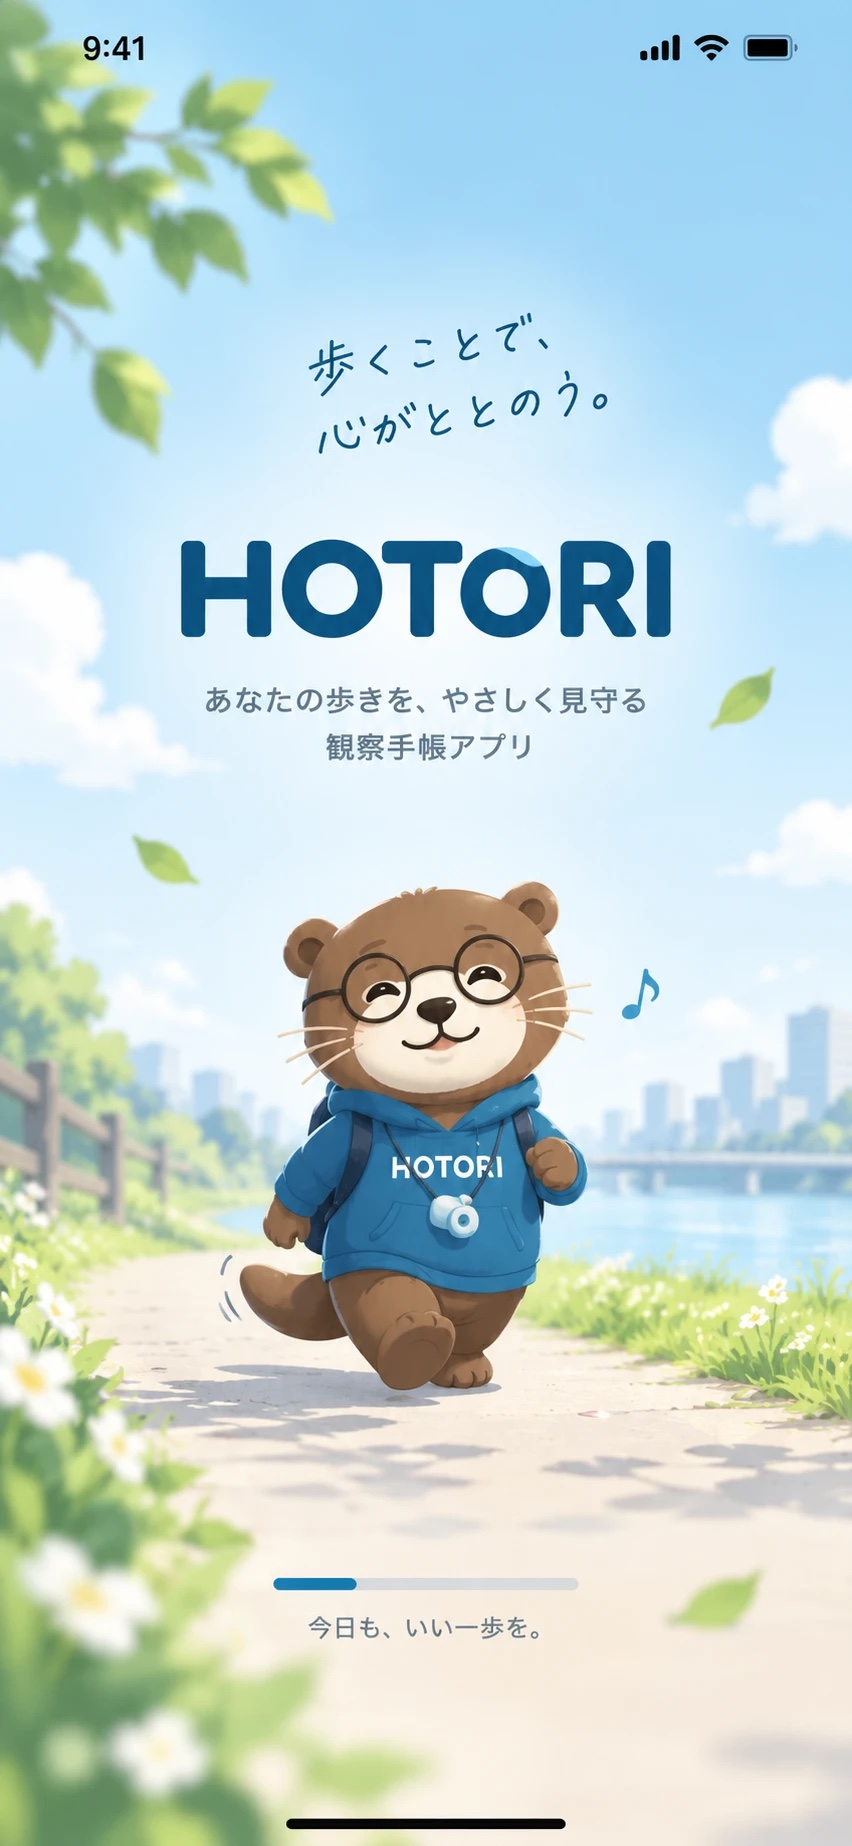
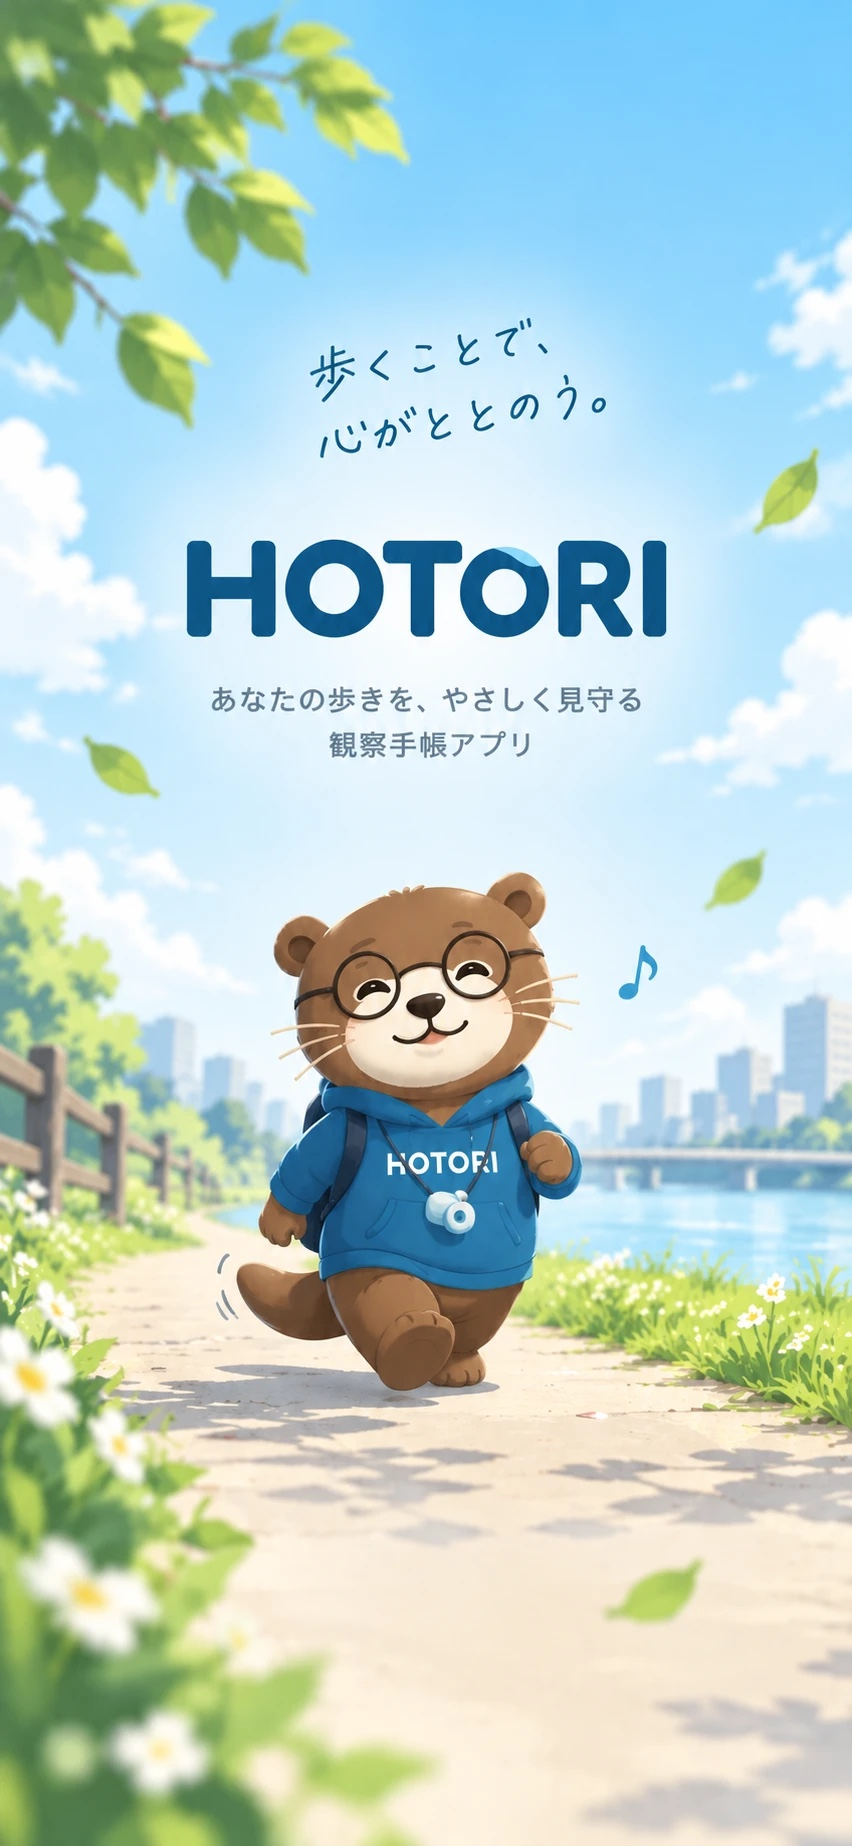
キービジュアルを進捗バーなし版に差し替え、バーとキャプションをネイティブ描画に変更
画像に描き込みだった進捗バーは静止して見える問題があったため、
バー・キャプションを除いた版のイラスト(ユーザー提供)に差し替え、
「今日も、いい一歩を。」と進捗バーをネイティブUIで重ねて実際に動かす。

- 進捗バーは表示中に9割までゆっくり満ち、準備完了(フェード開始)で満タンになる演出。
  実際の読み込み進捗は計測できないため体感に合わせた演出とし、
  reduce motion 設定時はアニメーションせず満タンの静止表示
- 幅アニメーションのためJSドライバを使用(小さなバー1本で負荷は無視できる)
- タイトルロゴ・キャッチコピーは引き続き画像に描き込み(ネイティブで重ねない)

検証: typecheck / lint / test(17スイート・247件)通過。
シミュレータのExpo Goでコールドスタートし、イラスト表示→バー動作→
キャプション表示→ホームへのフェードを連写キャプチャで確認済み。

diff --git a/src/components/launch-overlay.tsx b/src/components/launch-overlay.tsx
@@ -1,6 +1,6 @@
 import { Image } from 'expo-image';
 import { useEffect, useRef, useState } from 'react';
-import { Animated, Easing, StyleSheet, useAnimatedValue } from 'react-native';
+import { Animated, Easing, StyleSheet, Text, View, useAnimatedValue } from 'react-native';
 
 import { useReduceMotion } from '@/hooks/use-reduce-motion';
 import {
@@ -11,10 +11,12 @@ import {
 
 /** フェードアウトの長さ(ms) */
 const FADE_OUT_MS = 300;
+/** 進捗バーが9割まで満ちるのにかける時間(ms)。残り1割は準備完了の合図で満たす */
+const PROGRESS_CRUISE_MS = 2500;
 
-// キービジュアル(852×1846)。タイトルロゴ・キャッチコピー・進捗バー・
-// 「今日も、いい一歩を。」まですべて描き込み済みの1枚絵なので、
-// ネイティブUIのテキストや進捗バーをこの上に重ねない(二重表示になるため)
+// キービジュアル(852×1846)。タイトルロゴとキャッチコピーは描き込み済みなので
+// ネイティブUIで重ねない。進捗バーとキャプションだけは実際の進行に合わせて
+// 動かすため、画像には含めずここでネイティブ描画する
 const launchHero = require('../../assets/images/launch-hero.jpg');
 
 type Props = {
@@ -34,10 +36,30 @@ type Props = {
 export function LaunchOverlay({ ready, onShown }: Props) {
   const reduceMotion = useReduceMotion();
   const opacity = useAnimatedValue(1);
+  const progress = useAnimatedValue(0);
   const shownAtRef = useRef<number | null>(null);
   const notifiedRef = useRef(false);
   const [minVisibleReached, setMinVisibleReached] = useState(false);
   const [hidden, setHidden] = useState(false);
+
+  // 進捗バー: 表示中は9割までゆっくり満ち、準備完了の合図(フェード開始)で満タンになる。
+  // 実際の読み込み進捗は計測できないため、体感に合わせた演出として動かす。
+  // reduce motion 設定時はアニメーションせず満タンの静止表示にする
+  useEffect(() => {
+    if (reduceMotion) {
+      progress.setValue(1);
+      return;
+    }
+    const animation = Animated.timing(progress, {
+      toValue: 0.9,
+      duration: PROGRESS_CRUISE_MS,
+      easing: Easing.out(Easing.quad),
+      // width の補間に使うため JS ドライバで動かす(小さなバー1本なので負荷は無視できる)
+      useNativeDriver: false,
+    });
+    animation.start();
+    return () => animation.stop();
+  }, [reduceMotion, progress]);
 
   // 最小表示時間の経過を計る。準備が先に終わってもここまでは表示を保持してチラつきを防ぐ
   useEffect(() => {
@@ -56,17 +78,26 @@ export function LaunchOverlay({ ready, onShown }: Props) {
         ? 0
         : Date.now() - shownAt;
     if (!shouldDismissLaunchOverlay({ ready, elapsedMs })) return;
-    const animation = Animated.timing(opacity, {
-      toValue: 0,
-      duration: reduceMotion ? 0 : FADE_OUT_MS,
-      easing: Easing.out(Easing.ease),
-      useNativeDriver: true,
-    });
+    // フェードと同時に進捗バーを満タンにして「準備が終わった」合図にする
+    const animation = Animated.parallel([
+      Animated.timing(progress, {
+        toValue: 1,
+        duration: reduceMotion ? 0 : 200,
+        easing: Easing.out(Easing.ease),
+        useNativeDriver: false,
+      }),
+      Animated.timing(opacity, {
+        toValue: 0,
+        duration: reduceMotion ? 0 : FADE_OUT_MS,
+        easing: Easing.out(Easing.ease),
+        useNativeDriver: false,
+      }),
+    ]);
     animation.start(({ finished }) => {
       if (finished) setHidden(true);
     });
     return () => animation.stop();
-  }, [ready, minVisibleReached, reduceMotion, opacity]);
+  }, [ready, minVisibleReached, reduceMotion, opacity, progress]);
 
   if (hidden) return null;
 
@@ -84,6 +115,22 @@ export function LaunchOverlay({ ready, onShown }: Props) {
       accessibilityLabel="ホトリを準備しています"
     >
       <Image source={launchHero} style={styles.hero} contentFit="cover" />
+      <View style={styles.footer}>
+        <View style={styles.progressTrack}>
+          <Animated.View
+            style={[
+              styles.progressFill,
+              {
+                width: progress.interpolate({
+                  inputRange: [0, 1],
+                  outputRange: ['0%', '100%'],
+                }),
+              },
+            ]}
+          />
+        </View>
+        <Text style={styles.caption}>今日も、いい一歩を。</Text>
+      </View>
     </Animated.View>
   );
 }
@@ -105,5 +152,32 @@ const styles = StyleSheet.create({
     left: 0,
     right: 0,
     bottom: 0,
+  },
+  // 進捗バーとキャプション。イラストの小道の上に重なるため、
+  // 色はブランドの水辺ブルー系で固定する(このオーバーレイはテーマ非依存)
+  footer: {
+    position: 'absolute',
+    left: 0,
+    right: 0,
+    bottom: 72,
+    alignItems: 'center',
+    gap: 12,
+  },
+  progressTrack: {
+    width: '34%',
+    height: 6,
+    borderRadius: 3,
+    backgroundColor: 'rgba(255, 255, 255, 0.7)',
+    overflow: 'hidden',
+  },
+  progressFill: {
+    height: '100%',
+    borderRadius: 3,
+    backgroundColor: '#2E9FD6',
+  },
+  caption: {
+    fontSize: 14,
+    letterSpacing: 1,
+    color: '#17638F',
   },
 });
